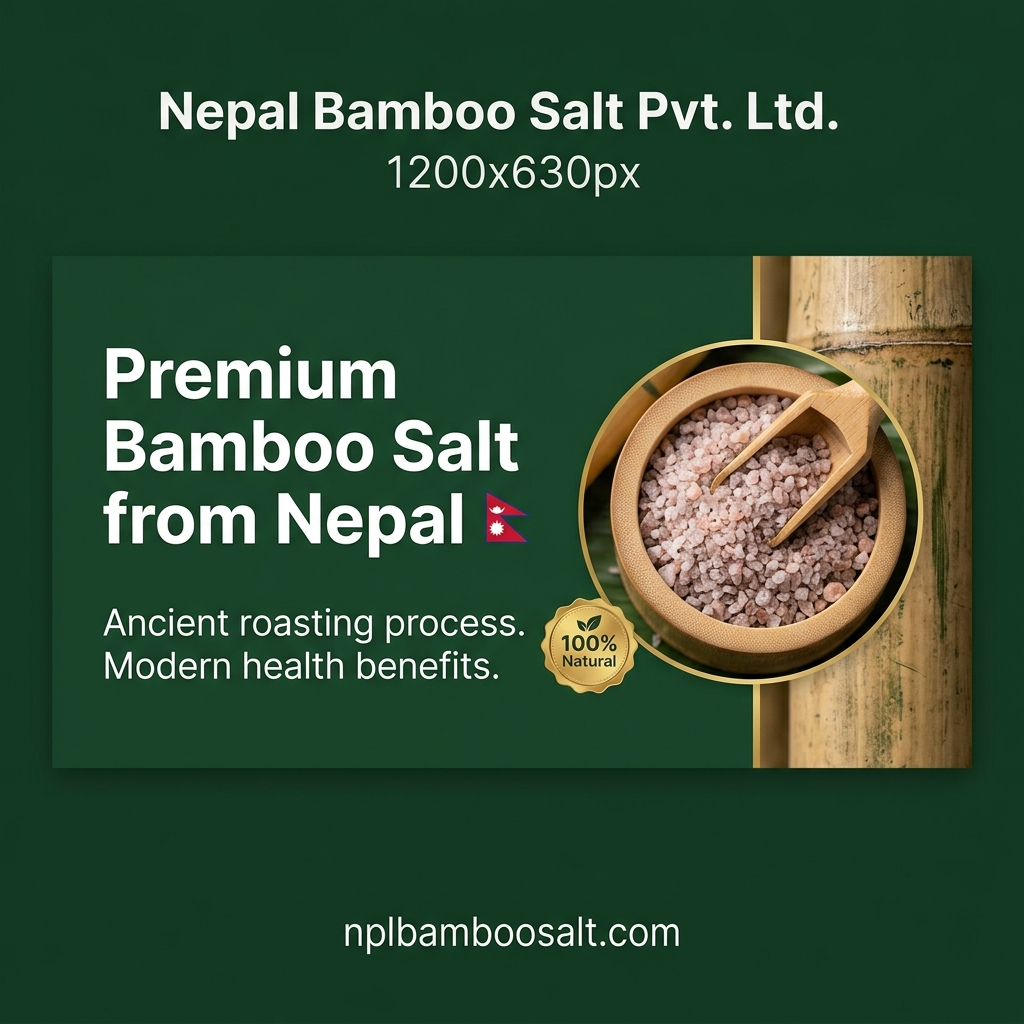
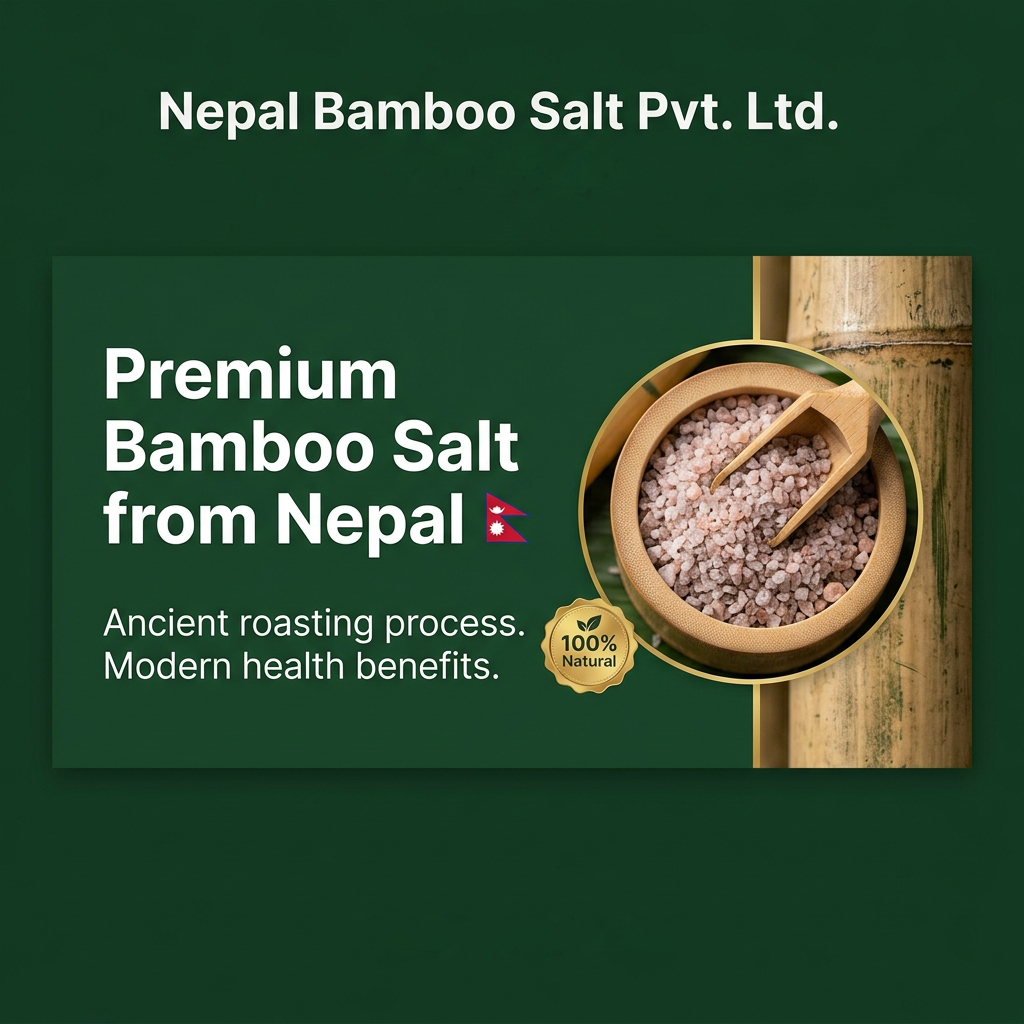
feat: og image changed

Changed region(s): [[0.3438, 0.875, 0.6562, 0.9375], [0.375, 0.1562, 0.625, 0.1875]]

diff --git a/app/layout.tsx b/app/layout.tsx
@@ -24,14 +24,12 @@ export const metadata: Metadata = {
     "Alkaline Salt",
   ],
   authors: [{ name: "Nepal Bamboo Salt Pvt. Ltd." }],
-  metadataBase: new URL(
-    process.env.NEXT_PUBLIC_SITE_URL || "http://localhost:3000",
-  ),
+  metadataBase: new URL(process.env.NEXT_PUBLIC_SITE_URL || "bamboosalt.com"),
   openGraph: {
     title: "Premium Bamboo Salt from Nepal | Nepal Bamboo Salt",
     description:
       "Ancient roasting process. Modern health benefits. Detoxify and improve health with 100% natural Nepal Bamboo Salt.",
-    url: process.env.NEXT_PUBLIC_SITE_URL || "http://localhost:3000",
+    url: process.env.NEXT_PUBLIC_SITE_URL || "bamboosalt.com",
     siteName: "Nepal Bamboo Salt",
     images: [
       {